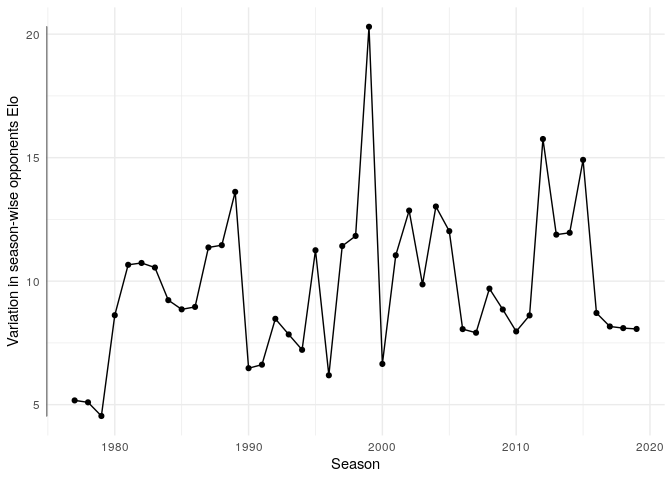
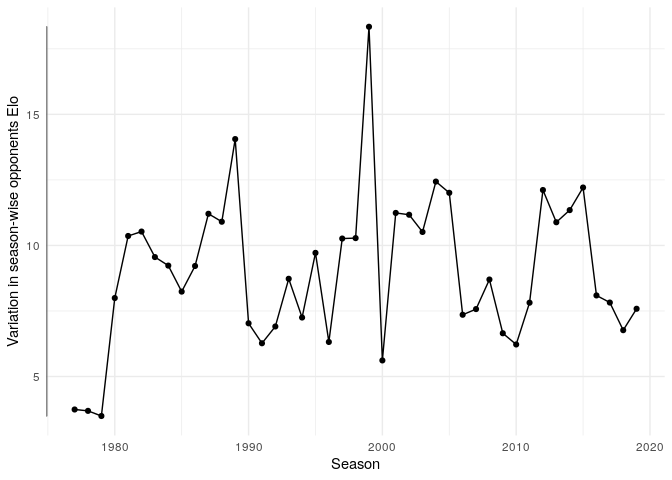
solved big doubles problem, unified names option, added toughest/easiest tables

diff --git a/README.md b/README.md
@@ -16,14 +16,17 @@ vein:
     performance: the Elo score.
 2.  Instead of a *remaining* SOS, calculate a *retrospective* SOS.
 
-The first addition is self explanatory and through 538s work very easy
-to implement. The latter idea
+The first addition is self explanatory and through 538s great work very
+easy to implement. The latter idea stems from my interest in questions
+like
 
-## Data
+  - Who had the hardest or easiest season in 2019?
+  - Who had the hardest or easiest season *ever*?
+  - Who had the hardest playoff run ever?
 
-  - All games since 1977 season (NBA/ABA Merger)
-  - All taken from 538s Elo database.
-    [link](https://projects.fivethirtyeight.com/nba-model/nba_elo.csv)
+All of these results depend on there being some amount of variation in
+opponents team strength (measured via elo). This is why it is important
+to first look at this variation.
 
 ## Results
 
@@ -40,7 +43,7 @@ far as I can tell the reason is the strength of the westen conference.
 ### Intra-Season Variation in Elo and oppoElo
 
 Let us now look on the highest deviations in terms of Elo in the past
-NBA.
+NBA throught a single season.
 
 We see that the 2011 Cavs had the highest difference in their own team
 Elo. This is due to Lebron James leaving during the offseason of 2010
@@ -48,33 +51,49 @@ and subsequent skill loss. The same thing happened to Chicago in 1999
 after Michael Jordans second retirement. The opposite happened to the
 2008 Boston Celtics: Pierce, Allen & Garnett got them the championsip.
 
-So we see, that big changes in a teams Elo through a season are mainly
-due to player movements.
+Summing up: Big changes in a teams Elo through a season are mainly due
+to player movements.
 
-![](/tmp/RtmpJdLOLB/file474819d1e505.png)<!-- -->
+![](README_files/figure-gfm/teamdelta.png)<!-- -->
 
-Now if we look at variation in opponents team Elo there is not such a
-clear picture. Portland faced both the Warriors at their Elo apex and
-the pre-processed 76ers in 2016. Most of the other outliers are due to
-the GSW or Michael Jordan.
+Opponents Elo is not as informative: Portland faced both the Warriors at
+their Elo apex and the pre-processed 76ers in 2016. Most of the other
+outliers are due to either GSW or Michael Jordan.
 
-![](/tmp/RtmpJdLOLB/file47486890f172.png)<!-- -->
+![](README_files/figure-gfm/oppodelta.png)<!-- -->
 
 ### Increased variation in seasonal performance
 
-There actually seems to be an increase in seasonal variation per team
-elo.
+There seems to be an increase in seasonal variation per team elo.
 
 ![](README_files/figure-gfm/unnamed-chunk-1-1.png)<!-- -->![](README_files/figure-gfm/unnamed-chunk-1-2.png)<!-- -->
+
+### Who had the hardest season/playoff run?
+
+![](README_files/figure-gfm/hardseason.png)<!-- -->![](README_files/figure-gfm/easyseason.png)<!-- -->
+
+The same for playoff runs
+
+![](README_files/figure-gfm/hardplayoff.png)<!-- -->![](README_files/figure-gfm/easyplayoff.png)<!-- -->
+
+## Data
+
+  - All games since 1977 season (NBA/ABA Merger)
+  - All taken from 538s Elo database.
+    [link](https://projects.fivethirtyeight.com/nba-model/nba_elo.csv)
 
 ## To-Do
 
   - [x] Upload shiny to shinyapps.io
-  - [ ] Add more seasons (by solving conferences, use elo website )
+  - [x] Add more seasons (by solving conferences, use elo website ) (no)
   - [x] Add carmElo for the recent seasons (via button)
   - [x] Make the graphic bigger in browser
   - [x] Look into the max/min delta a team can undergo in a season
   - [x] Visualize the variation in oppoElo and teamElo
   - [x] Make multiple seasons selectable
-  - [ ] Replace team names if it’s only name change
+  - [x] Replace team names if it’s only name change (via button)
   - [ ] How similar are the different Elo scores (logreg and visual)
+  - [ ] Brush up text.
+  - [x] Save table info so it shows up in github
+  - [x] carmelo only when looking at single year? (no)
+  - [x] Split by season –\> who had the hardest season/playoff
